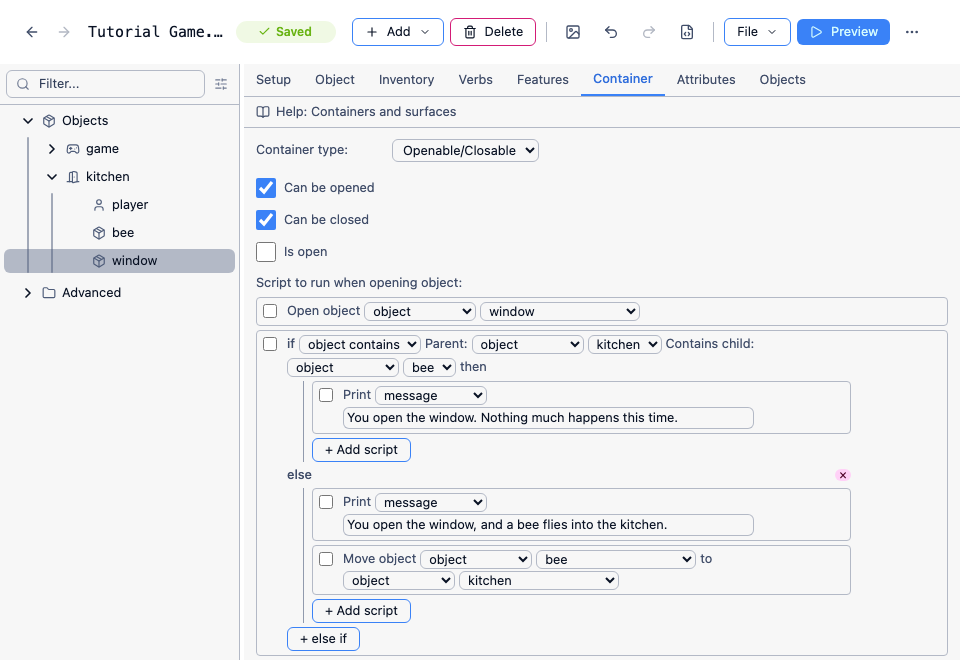
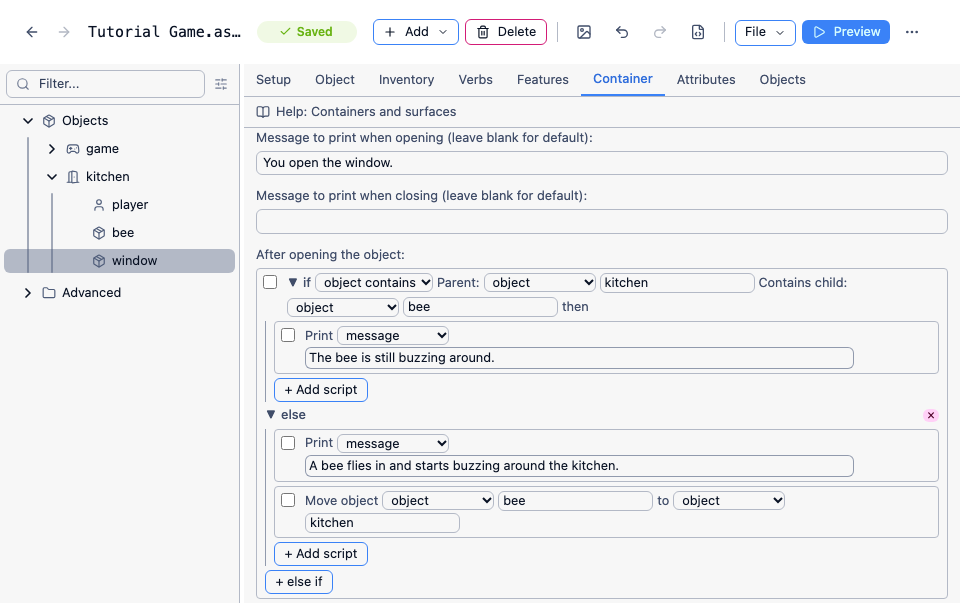
fix(Editor): show the open/close messages and "after opening/closing" scripts for Openable/Closable objects (#2798)

diff --git a/tests/EditorCoreTests/OpenableControlsTests.cs b/tests/EditorCoreTests/OpenableControlsTests.cs
@@ -1,0 +1,74 @@
+using System.Text;
+using QuestViva.Common;
+using QuestViva.EditorCore;
+
+namespace QuestViva.EditorCoreTests;
+
+// The open and close messages and the "after opening/closing" scripts work for any object that
+// opens and closes, so the Container tab shows them for an Openable/Closable object as well as for
+// a container, but not for a surface, which never opens (#2390).
+[TestClass]
+public class OpenableControlsTests
+{
+    private static readonly string[] Attributes = ["openmsg", "closemsg", "onopen", "onclose"];
+
+    private EditorController _controller = null!;
+
+    [TestInitialize]
+    public async Task Init()
+    {
+        _controller = await LoadTemplateController("English");
+        _controller.CreateNewObject("thing", null, "Thing");
+    }
+
+    [TestCleanup]
+    public void Cleanup()
+    {
+        _controller.Uninitialise();
+    }
+
+    [TestMethod]
+    [DataRow("openable", true)]
+    [DataRow("container_open", true)]
+    [DataRow("container_closed", true)]
+    [DataRow("surface", false)]
+    [DataRow(null, false)]
+    public async Task OpenAndCloseControls_ShowForObjectsThatOpen(string? type, bool expected)
+    {
+        if (type != null)
+        {
+            _controller.AddInheritedTypeToElement("thing", type, false);
+        }
+
+        var data = _controller.GetEditorData("thing")!;
+        var definition = _controller.GetEditorDefinition(_controller.GetElementEditorName("thing")!);
+        var controls = definition.Tabs.Values.SelectMany(t => t.Controls).ToList();
+
+        foreach (var attribute in Attributes)
+        {
+            var control = controls.Single(c => c.Attribute == attribute);
+            Assert.AreEqual(expected, await control.IsControlVisible(data), $"{attribute} on {type ?? "a plain object"}");
+        }
+    }
+
+    private static async Task<EditorController> LoadTemplateController(string templateName)
+    {
+        var template = EditorController.GetAvailableTemplates().Values.Single(t => t.TemplateName == templateName);
+        var bytes = Encoding.UTF8.GetBytes(EditorController.CreateNewGameFile(template.ResourceName, "Test"));
+
+        var controller = new EditorController();
+        controller.ClearTree += (_, _) => { };
+        controller.BeginTreeUpdate += (_, _) => { };
+        controller.EndTreeUpdate += (_, _) => { };
+        controller.AddedNode += (_, _) => { };
+        controller.RemovedNode += (_, _) => { };
+        controller.RenamedNode += (_, _) => { };
+        controller.RetitledNode += (_, _) => { };
+        controller.ElementsUpdated += (_, _) => { };
+        controller.Dirty += (_, _) => { };
+
+        Assert.IsTrue(await controller.Initialise(new GameData(bytes, "test.aslx")), $"Initialisation failed for template '{templateName}'");
+        controller.UpdateTree();
+        return controller;
+    }
+}

diff --git a/site/src/content/docs/tutorial/moving-objects-during-the-game.md b/site/src/content/docs/tutorial/moving-objects-during-the-game.md
@@ -16,21 +16,19 @@ Now, add a window object to the kitchen and give it a sensible description.
 
 We want the player to be able to open the window. That's a job for the _Container_ tab, as in [Containers, locks and doors](/tutorial/containers-locks-and-doors) - but a window isn't really a container, because you can't put anything in it. That's what the **Openable/Closable** container type is for: an object that opens and closes and holds nothing. Tick "Container" on the window's _Features_ tab, then choose "Openable/Closable" on its _Container_ tab.
 
-Now add script commands to "Script to run when opening object". This script *replaces* Quest Viva's own handling of `OPEN WINDOW` rather than running alongside it, so the first thing it has to do is open the window itself, and then say so:
+Opening the window will now work, with Quest Viva's usual "You open it." Let's say something more fitting: set "Message to print when opening" to "You open the window."
 
--   Open object: window
--   Print a message: "You open the window, and a bee flies into the kitchen."
+Now for the bee. Further down the tab, add script commands to "After opening the object". This script runs once Quest Viva has opened the window and printed its message:
+
+-   Print a message: "A bee flies in and starts buzzing around the kitchen."
 -   Move object "bee" to "kitchen"
-
-"Open object" is in the Objects category, below the "Advanced" divider. It only sets the object's state - it doesn't print anything - which is why we print our own message on the next line.
-
-There's a matching "Script to run when closing object", but we don't need one: leave it empty and Quest Viva closes the window for us, with its usual message.
 
 Launch the game and go to the kitchen. Open the window and verify that you can now look at the bee.
 
 ```
 > open window
-You open the window, and a bee flies into the kitchen.
+You open the window.
+A bee flies in and starts buzzing around the kitchen.
 
 > close window
 You close it.
@@ -42,9 +40,9 @@ What if the player closes the window and then opens it again? They'll be told th
 
 One way to get around this might be to use an object flag, as we've done before. However it's even simpler just to check if the bee is in the kitchen. Add an "if" command and choose "object contains". Now you can select "kitchen" as the parent and "bee" as the child.
 
-For the "then" script, print a message such as "You open the window. Nothing much happens this time."
+For the "then" script, print a message such as "The bee is still buzzing around."
 
-Now cut and paste the existing "print a message" ("You open the window, and a bee flies in...") and "move object" to the "Else". Leave "Open object" where it is, above the "if" - the window should open either way.
+Now cut and paste the existing "print a message" ("A bee flies in...") and "move object" to the "Else".
 
 ![](/images/Bee.png)
 

diff --git a/site/src/content/docs/tutorial/turns-and-timers.md b/site/src/content/docs/tutorial/turns-and-timers.md
@@ -89,7 +89,7 @@ For the timer's script, add "Print a message" with something like "The bee buzze
 
 ![](/images/TimerBee1.png)
 
-Now go back to the window in the kitchen and find the "Script to run when opening object" we wrote. In the branch that moves the bee into the kitchen, add "Enable timer" from the "Timers" category, and choose "bee timer".
+Now go back to the window in the kitchen and find the "After opening the object" script we wrote. In the branch that moves the bee into the kitchen, add "Enable timer" from the "Timers" category, and choose "bee timer".
 
 Play the game, go to the kitchen, open the window, and wait. Every 20 seconds, the message appears.
 
